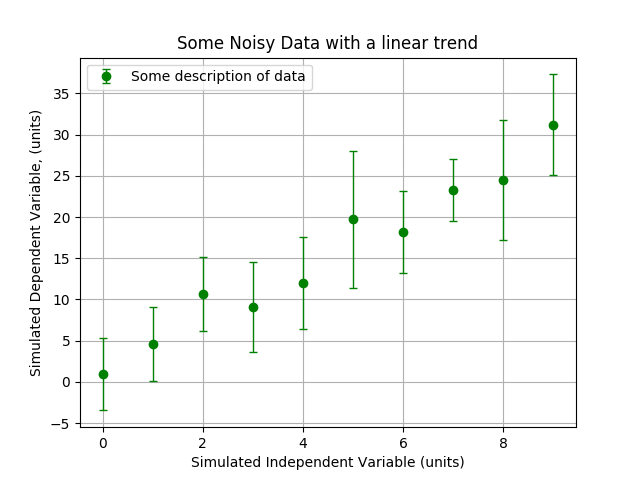
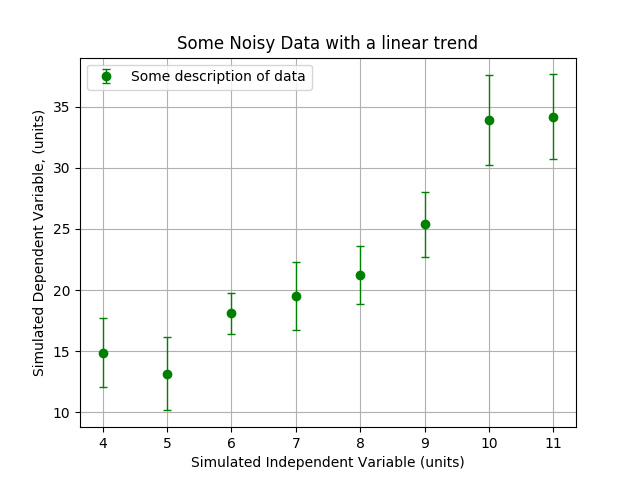
Added bit talking about the data

diff --git a/_includes/head.html b/_includes/head.html
@@ -7,6 +7,7 @@
   <meta name="description" content="{{ page.excerpt | default: site.description | strip_html | normalize_whitespace | truncate: 160 | escape }}">
 
   <link rel="stylesheet" href="{{ "/assets/main.css" | relative_url }}">
+  <link rel="stylesheet" href="{{ "/assets/css/styles.css" | relative_url }}">
   <!-- <link rel="stylesheet" href="{{ "/assets/css/syntax.css" | relative_url }}"> -->
   <link rel="canonical" href="{{ page.url | replace:'index.html','' | absolute_url }}">
   <link rel="alternate" type="application/rss+xml" title="{{ site.title | escape }}" href="{{ "/feed.xml" | relative_url }}">

diff --git a/assets/css/styles.css b/assets/css/styles.css
@@ -1,0 +1,15 @@
+
+table{
+   border-collapse: collapse;
+   border-spacing: 0;
+   /*border:2px solid #ff0000;*/
+}
+
+th{
+   border:1px solid #5555;
+}
+
+td{
+   border:1px solid #5555;
+   padding: 5px 10px;
+}

diff --git a/assets/code/plotting-in-python/make_plot.py b/assets/code/plotting-in-python/make_plot.py
@@ -21,7 +21,8 @@ def load_data_from_csv(f_name):
         data.append([float(i) for i in row])
     f.close()
     data = np.array(data)
-    x = np.arange(data.shape[0])
+    x = data[0,:]
+    data = data[1:,:].swapaxes(0,1)
     return x, data
 
 def plot_data(f_name):
@@ -40,7 +41,8 @@ def plot_data(f_name):
     # ax.errorbar is the main plotting function call.
     # The `fmt`, `capsize`, `elinewidth`, `color` and `label` keyword
     # arguments are there to style the plot -- they are not instrumental.
-    ax.errorbar(x,np.mean(data, axis=1),yerr=np.std(data,axis=1),
+    std_err = np.std(data,axis=1)/np.sqrt(data.shape[1])
+    ax.errorbar(x,np.mean(data, axis=1),yerr=std_err,
                 fmt='o',capsize=3, elinewidth=1, color='green',
                 label="Some description of data")
     # Set the text on the x axis.
@@ -56,8 +58,8 @@ def plot_data(f_name):
     # Create a window with the plot. You can click the save icon to
     # save it to file. Alternatively, you can uncomment the
     # `fig.savefig("sample_data_plot.png")` line to save directly.
-    plt.show()
-    # fig.savefig("sample_data_plot.png")
+    # plt.show()
+    fig.savefig("sample_data_plot.png")
 
 if __name__ == "__main__":
     plot_data("./sample_data.csv")

diff --git a/assets/code/plotting-in-python/generate_data.py b/assets/code/plotting-in-python/generate_data.py
@@ -28,15 +28,16 @@ def create_data(f_name=None, plot=False):
             return m*x + b
         return fn
 
-    linear = linear_fn(3., 2.)
+    linear = linear_fn(3., 0.)
 
-    x = np.arange(0,10,1)
+    x = np.arange(4,12,1)
     y = linear(x) + 6*np.random.randn(5,x.shape[0])
     if f_name is not None:
         with open(f_name, "w") as f:
             writer = csv.writer(f,delimiter=",")
-            for i in range(y.shape[1]):
-                writer.writerow(y[:,i])
+            writer.writerow(x)
+            for i in range(y.shape[0]):
+                writer.writerow(y[i,:])
 
     if plot:
         fig, ax = plt.subplots()
